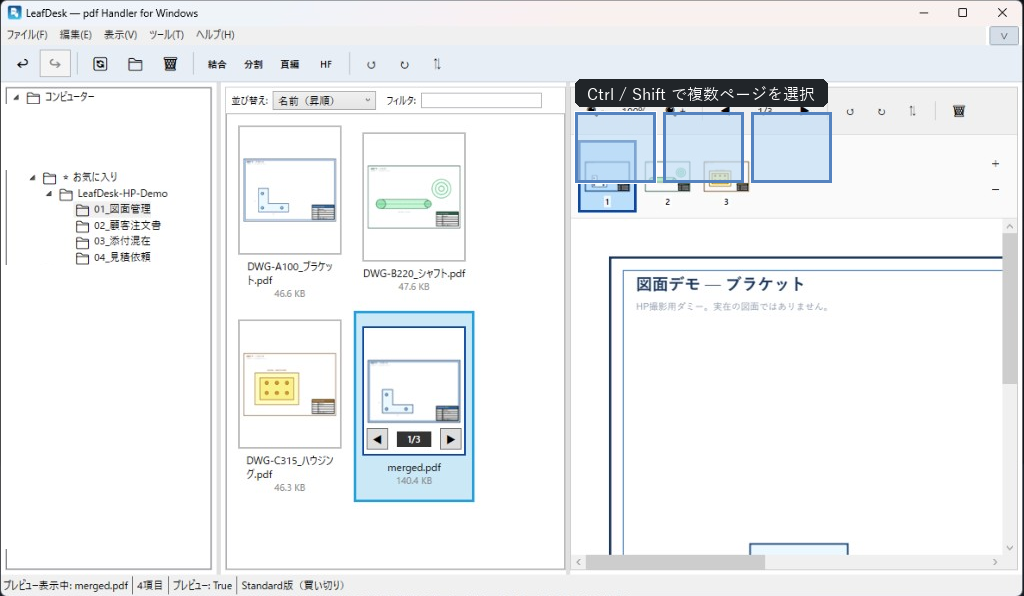
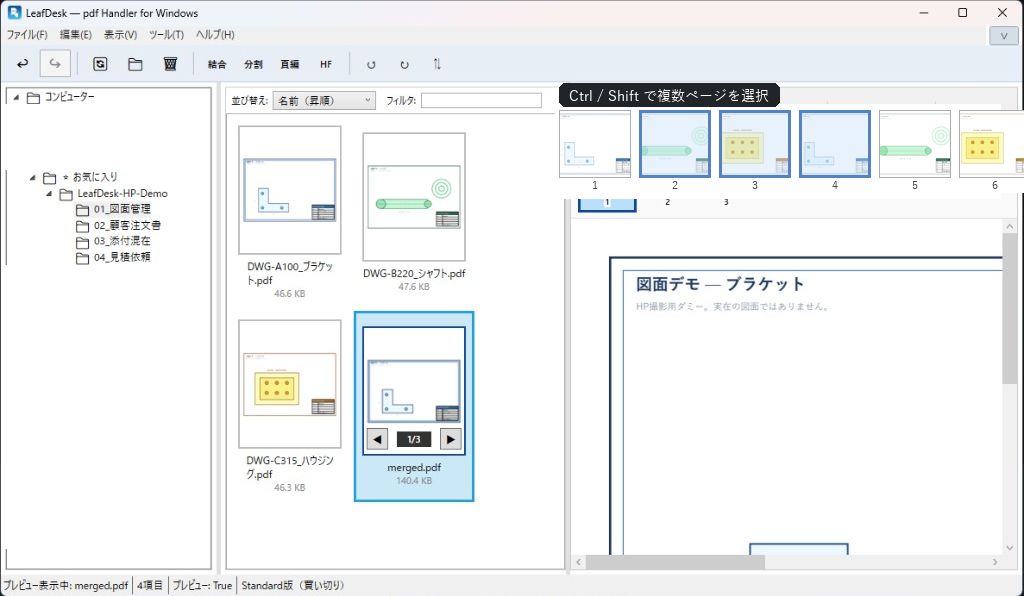
fix(leafdesk): realign multi-select strip and add F2 rename shot
Replace misaligned selection overlay with a 6-page strip that keeps
unselected pages on both sides, and add F2-in-preview rename screenshot.

Changed region(s): [[0.5312, 0.1208, 1.0, 0.3322]]

diff --git a/leafdesk.html b/leafdesk.html
@@ -7,7 +7,7 @@
   <link rel="apple-touch-icon" sizes="180x180" href="assets/logo/apple-touch-icon-large.png">
   <link rel="manifest" href="site.webmanifest">
   <meta name="theme-color" content="#ffffff">
-  <meta name="description" content="LeafDesk（旧 pdfHandler）- ファイルサーバ上の図面・注文書 PDF を開かずにサムネイルで見分け、複数ページの選択・並べ替え・結合まで同じ画面で整理できる Windows デスクトップアプリ。">
+  <meta name="description" content="LeafDesk（旧 pdfHandler）- 図面・注文書 PDF をサムネイルで見分け、プレビューしながら F2 リネーム、複数ページの選択・並べ替え・結合まで同じ画面で整理できる Windows デスクトップアプリ。">
   <title>LeafDesk — pdf Handler for Windows | Office Go Plan</title>
   <link rel="canonical" href="https://office-goplan.com/leafdesk">
   <link rel="preconnect" href="https://fonts.googleapis.com">
@@ -52,8 +52,8 @@
     <section class="section overview-section">
       <div class="container">
         <h2>概要</h2>
-        <p class="overview-desc">フォルダツリー、PDF 一覧、プレビューを 3 ペインで表示。図面枠・図番・レイアウトの違いをサムネイルとページストリップで確認しながら、目的のファイルをすばやく特定できます。見つかったあとは、リネーム、結合・分割、複数ページの選択・複製・並べ替え、ヘッダ・フッターまで、同じ画面から続けて操作できます。</p>
-        <p class="overview-keywords">サムネイル判別 / ページストリップ / 複数ページ選択 / 図面・注文書 / リネーム / 結合 / 分割 / ページ編集 / ヘッダ・フッター / お気に入りフォルダ</p>
+        <p class="overview-desc">フォルダツリー、PDF 一覧、プレビューを 3 ペインで表示。図面枠・図番・レイアウトの違いをサムネイルとページストリップで確認しながら、目的のファイルをすばやく特定できます。見つかったあとは、プレビュー表示のまま F2 でリネーム、結合・分割、複数ページの選択・複製・並べ替え、ヘッダ・フッターまで、同じ画面から続けて操作できます。</p>
+        <p class="overview-keywords">サムネイル判別 / F2リネーム / ページストリップ / 複数ページ選択 / 図面・注文書 / 結合 / 分割 / ページ編集 / ヘッダ・フッター / お気に入りフォルダ</p>
       </div>
     </section>
 
@@ -106,6 +106,13 @@
           </div>
           <div class="screenshot-item">
             <div class="screenshot-caption">
+              <h3 class="screenshot-title">プレビューしながらリネーム</h3>
+              <p class="screenshot-desc">サムネイル選択中に F2。右側のプレビューを見ながら、その場でファイル名を変更できます</p>
+            </div>
+            <img src="assets/pdfhandler/gui-rename-f2.png" alt="LeafDesk で F2 によりファイル名を編集している画面" width="1024" height="596">
+          </div>
+          <div class="screenshot-item">
+            <div class="screenshot-caption">
               <h3 class="screenshot-title">顧客注文書</h3>
               <p class="screenshot-desc">レイアウトの異なる注文書を一覧し、開かずに見分けながら整理</p>
             </div>
@@ -143,7 +150,7 @@
         <ul class="feature-list">
           <li><strong>視覚検索</strong>: 3 ペイン構成とサムネイル／ページストリップで、開かずに目的 PDF を特定</li>
           <li><strong>PDFプレビュー</strong>: ページ送り、拡大・縮小。プレビュー上から表示中ページの回転・削除も可能</li>
-          <li><strong>ファイル操作</strong>: F2 キーでのリネーム、コピー、ペースト、削除を実行</li>
+          <li><strong>ファイル操作</strong>: F2 キーでプレビュー表示のままリネーム。コピー、ペースト、削除にも対応</li>
           <li><strong>PDF結合</strong>: 複数 PDF の順序を調整して 1 つの PDF に結合（しおりの引き継ぎにも対応）</li>
           <li><strong>PDF分割</strong>: ページ範囲、1ページずつ、等分割の 3 パターンに対応</li>
           <li><strong>ページ回転</strong>: プレビュー／サムネイルの表示中ページ、または選択 PDF の全ページを回転（有償機能）</li>

diff --git a/scripts/make-leafdesk-feature-screenshots.py b/scripts/make-leafdesk-feature-screenshots.py
@@ -1,0 +1,200 @@
+#!/usr/bin/env python3
+"""Rebuild LeafDesk HP screenshots:
+  - gui-multiselect.png: strip with unselected pages on sides + middle multi-select
+  - gui-rename-f2.png: F2 rename TextBox under selected thumbnail while preview visible
+"""
+
+from __future__ import annotations
+
+from pathlib import Path
+
+import fitz
+import numpy as np
+from PIL import Image, ImageDraw, ImageFont
+
+ASSETS = Path(r"d:\Users\admin_mak\project\office-goplan\assets\pdfhandler")
+BASE = ASSETS / "gui-drawings.png"
+OUT_MULTI = ASSETS / "gui-multiselect.png"
+OUT_RENAME = ASSETS / "gui-rename-f2.png"
+VERIFY = Path(r"d:\Users\admin_mak\project\pdf-handler_DEV\docs\development\mockups")
+
+DEMO_PDF = next(Path.home().joinpath("Documents", "LeafDesk-HP-Demo").glob("01_*")) / "strip-demo-6pages.pdf"
+
+STRIP_Y0, STRIP_Y1 = 108, 188
+STRIP_X0, STRIP_X1 = 555, 1000
+THUMB_W, THUMB_H = 72, 68
+GAP = 8
+BORDER = (85, 131, 191)
+WASH = (190, 220, 246)
+GRAY_BORDER = (170, 170, 175)
+
+
+def load_font(size: int) -> ImageFont.ImageFont:
+    for name in ("YuGothM.ttc", "YuGothR.ttc", "meiryo.ttc"):
+        path = Path(r"C:\Windows\Fonts") / name
+        if path.exists():
+            try:
+                return ImageFont.truetype(str(path), size)
+            except OSError:
+                continue
+    return ImageFont.load_default()
+
+
+def render_page_thumbs(pdf: Path, count: int, size: tuple[int, int]) -> list[Image.Image]:
+    doc = fitz.open(pdf)
+    out: list[Image.Image] = []
+    tw, th = size
+    for i in range(min(count, doc.page_count)):
+        page = doc.load_page(i)
+        zoom = min(tw / page.rect.width, th / page.rect.height) * 2.2
+        pix = page.get_pixmap(matrix=fitz.Matrix(zoom, zoom), alpha=False)
+        im = Image.frombytes("RGB", (pix.width, pix.height), pix.samples)
+        scale = max(tw / im.width, th / im.height)
+        nw, nh = max(tw, int(im.width * scale)), max(th, int(im.height * scale))
+        im2 = im.resize((nw, nh), Image.Resampling.LANCZOS)
+        left = max(0, (nw - tw) // 2)
+        top = max(0, (nh - th) // 2)
+        out.append(im2.crop((left, top, left + tw, top + th)))
+    doc.close()
+    return out
+
+
+def paste_strip_card(
+    canvas: Image.Image,
+    thumb: Image.Image,
+    xy: tuple[int, int],
+    *,
+    selected: bool,
+    page_no: int,
+) -> None:
+    x, y = xy
+    # white pad under thumb
+    d = ImageDraw.Draw(canvas)
+    d.rectangle([x, y, x + THUMB_W - 1, y + THUMB_H + 14], fill=(255, 255, 255))
+    canvas.paste(thumb, (x, y))
+
+    if selected:
+        overlay = Image.new("RGBA", (THUMB_W, THUMB_H), (*WASH, 95))
+        rgba = canvas.convert("RGBA")
+        rgba.alpha_composite(overlay, dest=(x, y))
+        canvas.paste(rgba.convert("RGB"))
+        d = ImageDraw.Draw(canvas)
+        for t in range(3):
+            d.rectangle(
+                [x + t, y + t, x + THUMB_W - 1 - t, y + THUMB_H - 1 - t],
+                outline=BORDER,
+            )
+    else:
+        d.rectangle([x, y, x + THUMB_W - 1, y + THUMB_H - 1], outline=GRAY_BORDER)
+
+    font = load_font(11)
+    label = str(page_no)
+    bbox = d.textbbox((0, 0), label, font=font)
+    tw = bbox[2] - bbox[0]
+    d.text((x + (THUMB_W - tw) // 2, y + THUMB_H + 1), label, fill=(70, 70, 70), font=font)
+
+
+def build_multiselect() -> Image.Image:
+    base = Image.open(BASE).convert("RGB")
+    thumbs = render_page_thumbs(DEMO_PDF, 6, (THUMB_W, THUMB_H))
+
+    d = ImageDraw.Draw(base)
+    d.rectangle([STRIP_X0, STRIP_Y0 - 4, STRIP_X1, STRIP_Y1 + 10], fill=(255, 255, 255))
+
+    n = 6
+    selected = {2, 3, 4}
+    total_w = n * THUMB_W + (n - 1) * GAP
+    start_x = STRIP_X0 + max(4, (STRIP_X1 - STRIP_X0 - total_w) // 2)
+    y = STRIP_Y0 + 2
+
+    for i, thumb in enumerate(thumbs, start=1):
+        x = start_x + (i - 1) * (THUMB_W + GAP)
+        paste_strip_card(base, thumb, (x, y), selected=(i in selected), page_no=i)
+
+    font = load_font(14)
+    label = "Ctrl / Shift で複数ページを選択"
+    bbox = d.textbbox((0, 0), label, font=font)
+    tw, th = bbox[2] - bbox[0], bbox[3] - bbox[1]
+    lx, ly = start_x, max(74, STRIP_Y0 - th - 12)
+    pad_x, pad_y = 10, 5
+    d.rounded_rectangle(
+        [lx, ly, lx + tw + pad_x * 2, ly + th + pad_y * 2],
+        radius=6,
+        fill=(33, 37, 41),
+    )
+    d.text((lx + pad_x, ly + pad_y), label, fill=(255, 255, 255), font=font)
+    return base
+
+
+def find_selected_thumb_name_area(arr: np.ndarray) -> tuple[int, int, int, int]:
+    h, w = arr.shape[:2]
+    blue = (
+        (arr[:, :, 2] > 160)
+        & (arr[:, :, 0] < 140)
+        & (arr[:, :, 1] < 200)
+        & (np.arange(w)[None, :] > int(w * 0.22))
+        & (np.arange(w)[None, :] < int(w * 0.52))
+        & (np.arange(h)[:, None] > 80)
+        & (np.arange(h)[:, None] < 420)
+    )
+    ys, xs = np.where(blue)
+    if len(xs) < 100:
+        return (330, 318, 460, 342)
+    x0, x1 = int(xs.min()), int(xs.max())
+    y0, y1 = int(ys.min()), int(ys.max())
+    name_y0 = y0 + int((y1 - y0) * 0.78)
+    return (x0 + 10, name_y0, x1 - 10, min(y1 - 6, name_y0 + 24))
+
+
+def build_rename_f2() -> Image.Image:
+    base = Image.open(BASE).convert("RGB")
+    arr = np.asarray(base)
+    x0, y0, x1, y1 = find_selected_thumb_name_area(arr)
+    print("rename box", (x0, y0, x1, y1))
+    d = ImageDraw.Draw(base)
+
+    # ensure enough height for textbox
+    if y1 - y0 < 22:
+        y1 = y0 + 22
+
+    d.rectangle([x0, y0, x1, y1], fill=(255, 255, 255), outline=(0, 120, 215), width=2)
+    font = load_font(12)
+    text = "merged_図面セット"
+    tb = d.textbbox((x0 + 4, y0 + 3), text, font=font)
+    sel_r = min(x1 - 3, tb[2] + 4)
+    d.rectangle([x0 + 3, y0 + 3, sel_r, y1 - 3], fill=(0, 120, 215))
+    d.text((x0 + 4, y0 + 3), text, fill=(255, 255, 255), font=font)
+
+    font2 = load_font(14)
+    label = "F2：プレビュー表示のままファイル名を変更"
+    bbox = d.textbbox((0, 0), label, font=font2)
+    tw, th = bbox[2] - bbox[0], bbox[3] - bbox[1]
+    lx, ly = max(210, x0 - 20), y1 + 10
+    pad_x, pad_y = 10, 5
+    d.rounded_rectangle(
+        [lx, ly, lx + tw + pad_x * 2, ly + th + pad_y * 2],
+        radius=6,
+        fill=(33, 37, 41),
+    )
+    d.text((lx + pad_x, ly + pad_y), label, fill=(255, 255, 255), font=font2)
+    return base
+
+
+def main() -> None:
+    if not DEMO_PDF.exists():
+        raise SystemExit(f"missing {DEMO_PDF}")
+    VERIFY.mkdir(parents=True, exist_ok=True)
+
+    multi = build_multiselect()
+    multi.save(OUT_MULTI, optimize=True)
+    multi.crop((STRIP_X0 - 10, 70, STRIP_X1, STRIP_Y1 + 36)).save(VERIFY / "_hp_multiselect_strip.png")
+    print(f"wrote {OUT_MULTI}")
+
+    rename = build_rename_f2()
+    rename.save(OUT_RENAME, optimize=True)
+    rename.crop((210, 90, 520, 400)).save(VERIFY / "_hp_rename_f2.png")
+    print(f"wrote {OUT_RENAME}")
+
+
+if __name__ == "__main__":
+    main()

diff --git a/docs/SITE_DOC_REGISTER.md b/docs/SITE_DOC_REGISTER.md
@@ -15,7 +15,7 @@
 | WEB ID | 名称 | 主ファイル | 版／日付 | 備考 |
 |---|---|---|---|---|
 | WEB-INDEX | トップ | `index.html` | — | |
-| WEB-PDFH | LeafDesk（旧 pdfHandler） | `leafdesk.html` | **2026-08-23** | 正規 URL `/leafdesk`。スクショ 5 枚（複数選択含む）。DL は `/releases/latest` |
+| WEB-PDFH | LeafDesk（旧 pdfHandler） | `leafdesk.html` | **2026-08-23** | 正規 URL `/leafdesk`。スクショ 6 枚（F2 リネーム・複数選択含む）。DL は `/releases/latest` |
 | WEB-ZIP | ZipSearch | `zipsearch.html` | — | |
 | WEB-PICT | PictComp | `pictcomp.html` | — | |
 | **WEB-TERMS** | **利用規約（全製品）** | `terms-of-service.html` | **2026-08-01** | 正本 `docs/legal/TERMS_OF_SERVICE.txt`（LeafDesk 表記） |
@@ -33,7 +33,7 @@
 
 | 日付 | 内容 |
 |---|---|
-| 2026-08-23 | **WEB-PDFH** — 複数ページ選択スクショ追加・機能文言更新（v1.3.10） |
+| 2026-08-23 | **WEB-PDFH** — F2 リネーム／複数選択スクショ追加・機能文言更新（v1.3.10） |
 | 2026-08-03 | **WEB-PDFH** — ユースケース（図面・注文書等）＋ダミー PDF スクショ差し替え |
 | 2026-07-17 | **WEB-PDFH** / トップ — 固定版番号・主な更新を廃止（`/releases/latest` 誘導） |
 | 2026-07-12 | **WEB-PDFH** / トップ — 最新版 **v1.2.7**（ツールバー見切れ修正） |

diff --git a/assets/pdfhandler/README.md b/assets/pdfhandler/README.md
@@ -12,9 +12,10 @@
 撮影元は `%USERPROFILE%\Documents\LeafDesk-HP-Demo\`。ツリーの実ドライブ等は `scripts/fix-leafdesk-hp-screenshots.py` でマスク済み。
 
 - `gui-drawings.png`: 図面管理（サムネ＋ページストリップ）※旧 `gui-main.png` はキャッシュ残りのため参照しない
+- `gui-rename-f2.png`: F2 リネーム中（プレビュー表示のまま）。`scripts/make-leafdesk-feature-screenshots.py`
 - `gui-po.png`: 顧客注文書（レイアウト差）
 - `gui-mix.png`: 添付混在（図面／検査基準など）
 - `gui-rfq.png`: 見積依頼・要求仕様
-- `gui-multiselect.png`: ページストリップ複数選択（v1.3.10）。`scripts/make-leafdesk-multiselect-screenshot.py` で `gui-drawings.png` から生成
+- `gui-multiselect.png`: ページストリップ複数選択（左右に未選択ページ）。同上スクリプト
 
 旧ダイアログ単体画像（`merge-dialog.png` 等）は差し替え前の控えとして残置可。

diff --git a/CHANGELOG.md b/CHANGELOG.md
@@ -1,9 +1,10 @@
 # CHANGELOG — Office Go Plan サイト（office-goplan）
 
-## 2026-08-23（LeafDesk — 複数ページ選択スクショ）
+## 2026-08-23（LeafDesk — 複数ページ選択・F2 リネーム）
 
-- **WEB-PDFH** — 「画面で見る」に **複数ページの操作**（`gui-multiselect.png`）を追加（既存 4 枚は維持）
-- 概要キーワード・機能リストのページ編集説明を v1.3.10（複数選択・複製・別ファイル出力）に合わせて更新
+- **WEB-PDFH** — 「画面で見る」に **プレビューしながらリネーム**（`gui-rename-f2.png`）と **複数ページの操作**（`gui-multiselect.png`・左右に未選択ページ）を追加
+- 概要・機能リストを F2 リネーム／複数選択に合わせて更新
+- 生成: `scripts/make-leafdesk-feature-screenshots.py`
 
 ## 2026-08-08（LeafDesk URL `/leafdesk`）
 
